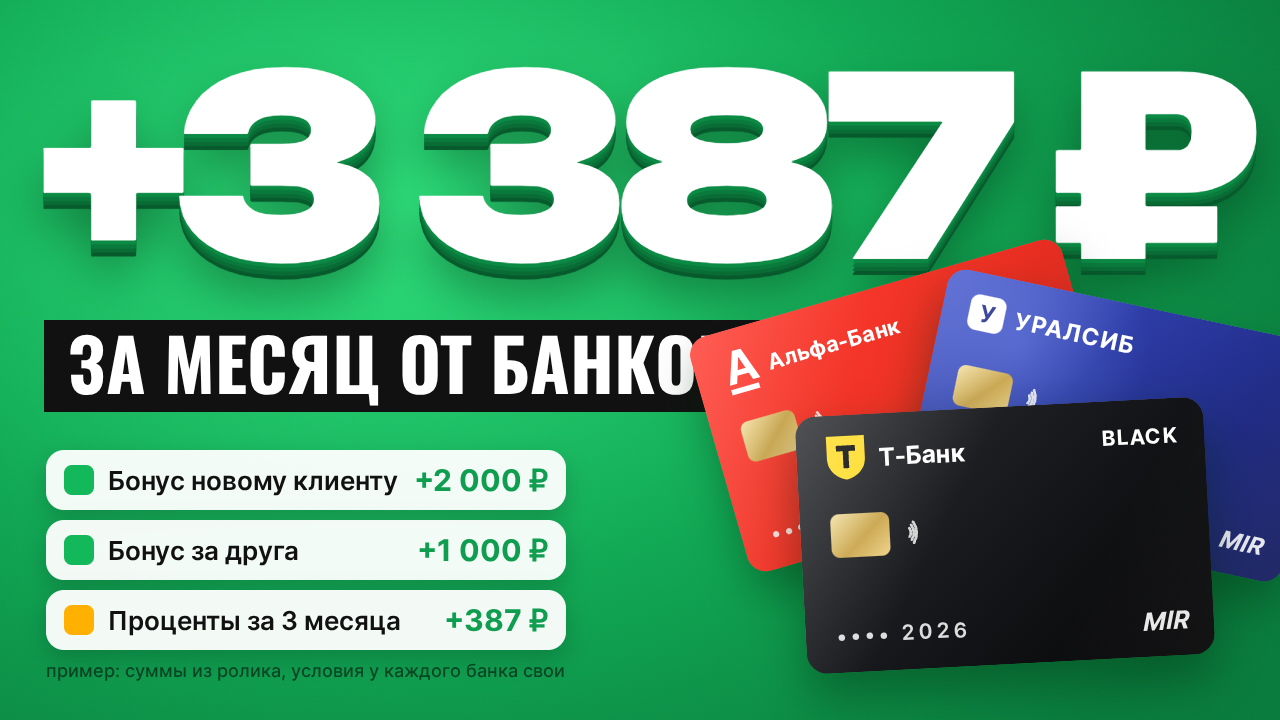
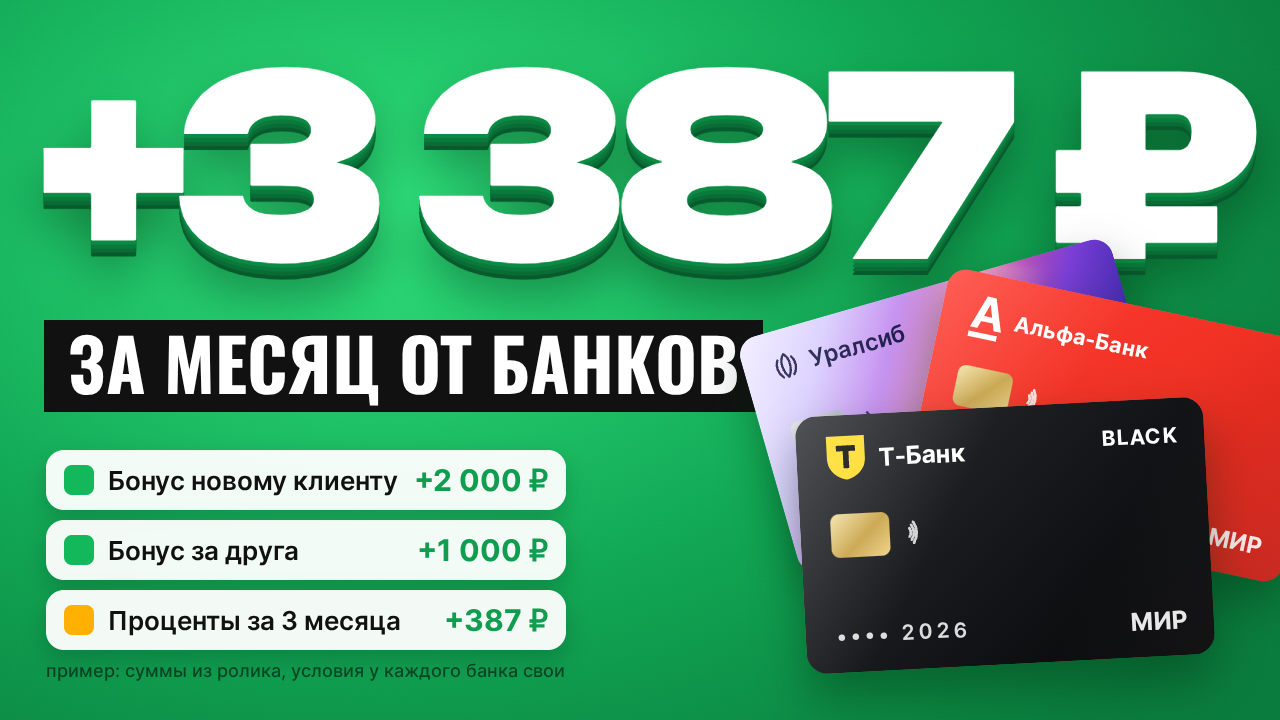
Video #3 thumbnail: Uralsib card in the bank's gradient colours, МИР label on all cards
Claude-Session: https://claude.ai/code/session_01RfCfKDkbyGyDNmw4SWPkFj

Changed region(s): [[0.5312, 0.3361, 1.0, 0.825], [0.875, 0.825, 0.9375, 0.8861]]

diff --git a/youtube/03-banks-pay-you/thumb/thumbs7.html b/youtube/03-banks-pay-you/thumb/thumbs7.html
@@ -44,29 +44,29 @@
 const v = new URLSearchParams(location.search).get("v") || "1";
 const nfc = (c) => `<svg class="nfc" width="34" height="34" viewBox="0 0 34 34">${[8, 14, 20].map(r => `<path d="M${6 + r * .35} ${17 - r * .55} A ${r} ${r} 0 0 1 ${6 + r * .35} ${17 + r * .55}" fill="none" stroke="${c}" stroke-width="3" stroke-linecap="round"/>`).join("")}</svg>`;
 // упрощённые знаки банков (не точные копии логотипов): Альфа — красная карта и белая «А» с чертой; Т — чёрная карта и жёлтый щит;
-// Уралсиб — тёмно-синяя карта и надпись
+// Уралсиб — переливающаяся карта (светло-лиловый → розовый → фиолетовый), как их текущие карты «Мир»
 const CARDS = {
   alfa: `<div style="position:absolute;inset:0;background:linear-gradient(135deg,#ff3b30,#ef3124 50%,#c41d14)"></div>
     <div style="position:absolute;left:30px;top:22px;display:flex;align-items:center;gap:12px;color:#fff"><div style="position:relative;width:40px;height:50px">
       <div style="font:700 50px/1 I;color:#fff;position:absolute;left:3px;top:-4px">А</div><div style="position:absolute;left:4px;bottom:0;width:32px;height:6px;background:#fff"></div></div>
       <div style="font:700 24px I;letter-spacing:.01em">Альфа-Банк</div></div>
-    <div class="chip"></div>${nfc("rgba(255,255,255,.85)")}<div class="num4" style="color:#fff">•••• 4412</div><div class="ps" style="color:#fff">MIR</div>`,
+    <div class="chip"></div>${nfc("rgba(255,255,255,.85)")}<div class="num4" style="color:#fff">•••• 4412</div><div class="ps" style="color:#fff;font-style:normal;font-weight:700">МИР</div>`,
   tbank: `<div style="position:absolute;inset:0;background:linear-gradient(135deg,#2b2c30,#141518 55%,#050506)"></div>
     <div style="position:absolute;left:30px;top:20px;display:flex;align-items:center;gap:12px"><svg width="44" height="50" viewBox="0 0 44 50"><path d="M2 2 H42 V26 C42 38 32 46 22 48 C12 46 2 38 2 26 Z" fill="#ffdd2d"/>
       <path d="M12 12 H32 V18 H25 V36 H19 V18 H12 Z" fill="#111"/></svg><div style="font:700 26px I;color:#fff">Т-Банк</div></div>
     <div style="position:absolute;right:28px;top:26px;font:700 22px I;color:#fff;letter-spacing:.06em">BLACK</div>
-    <div class="chip"></div>${nfc("rgba(255,255,255,.8)")}<div class="num4" style="color:#fff">•••• 2026</div><div class="ps" style="color:#fff">MIR</div>`,
-  ural: `<div style="position:absolute;inset:0;background:linear-gradient(135deg,#3b4dc8,#24308f 55%,#151c5c)"></div>
-    <div style="position:absolute;left:-60px;top:-80px;width:300px;height:300px;border-radius:50%;background:radial-gradient(circle,rgba(120,150,255,.35),transparent 70%)"></div>
-    <div style="position:absolute;left:30px;top:24px;display:flex;align-items:center;gap:12px"><div style="width:40px;height:40px;border-radius:10px;background:#fff;display:flex;align-items:center;justify-content:center;font:700 26px I;color:#24308f">У</div>
-      <div style="font:700 26px I;color:#fff;letter-spacing:.06em">УРАЛСИБ</div></div>
-    <div class="chip"></div>${nfc("rgba(255,255,255,.85)")}<div class="num4" style="color:#fff">•••• 7730</div><div class="ps" style="color:#fff">MIR</div>`,
+    <div class="chip"></div>${nfc("rgba(255,255,255,.8)")}<div class="num4" style="color:#fff">•••• 2026</div><div class="ps" style="color:#fff;font-style:normal;font-weight:700">МИР</div>`,
+  ural: `<div style="position:absolute;inset:0;background:linear-gradient(118deg,#f1ecff 0%,#d9cfff 18%,#c58df0 34%,#e2559e 50%,#7b3fd6 68%,#3a23a8 84%,#24187a 100%)"></div>
+    <div style="position:absolute;left:120px;top:-40px;width:160px;height:380px;transform:rotate(28deg);background:linear-gradient(90deg,transparent,rgba(255,255,255,.45),transparent);filter:blur(6px)"></div>
+    <div style="position:absolute;left:30px;top:24px;display:flex;align-items:center;gap:10px"><svg width="34" height="34" viewBox="0 0 34 34"><path d="M17 4 C 11 10, 11 22, 17 30 M17 4 C 23 10, 23 22, 17 30 M9 9 C 5 15, 6 24, 11 29 M25 9 C 29 15, 28 24, 23 29" fill="none" stroke="#1d1a4a" stroke-width="2.6" stroke-linecap="round"/></svg>
+      <div style="font:600 26px I;color:#1d1a4a">Уралсиб</div></div>
+    <div class="chip" style="background:linear-gradient(135deg,#e9e9ef,#b9bac6 55%,#dcdce4)"></div>${nfc("rgba(29,26,74,.8)")}<div class="num4" style="color:#fff">•••• 7730</div><div class="ps" style="color:#fff;font-style:normal;font-weight:700">МИР</div>`,
 };
 // расположение трёх карт: [банк, x, y, поворот, масштаб]; первая — сзади
 const LAY = {
   1: [["ural", 830, 300, 22, .9, 1], ["alfa", 800, 320, 6, .9, 1], ["tbank", 770, 340, -10, .92, 1]],
   2: [["ural", 860, 235, -6, .85], ["alfa", 810, 325, -6, .88], ["tbank", 760, 415, -6, .9]],
-  3: [["alfa", 690, 270, -16, .9], ["ural", 900, 290, 12, .9], ["tbank", 790, 400, -3, .95]],
+  3: [["ural", 740, 270, -16, .9], ["alfa", 900, 290, 12, .9], ["tbank", 790, 400, -3, .95]],
 }[v];
 document.getElementById("cards").innerHTML = LAY.map(([b, x, y, r, s, pivot]) => `<div class="card" style="left:${x}px;top:${y}px;transform-origin:${pivot ? "50% 120%" : "50% 50%"};transform:rotate(${r}deg) scale(${s})">${CARDS[b]}</div>`).join("");
 const S = [["Бонус новому клиенту", "+2 000 ₽"], ["Бонус за друга", "+1 000 ₽"], ["Проценты за 3 месяца", "+387 ₽"]];

diff --git a/youtube/03-banks-pay-you/thumb/README.md b/youtube/03-banks-pay-you/thumb/README.md
@@ -39,4 +39,4 @@
 - Владелец выбрал `p7a.png`: «не используй 3д обьекты, этого больше не нужно, замени 3д обьекты на карты Альфа банка, Т банка и
   Урал сиб банка». `thumbs7.html` → `b2.png` (лесенка), `b3.png` (россыпь); `b1` (веер) не отправлен — логотипы задних карт закрыты.
   Карты плоские (CSS), знаки банков упрощённые; сумм на картах нет — суммы в списке слева, это примеры из сценария, не условия
-  конкретного банка (Уралсиба в источниках сценария нет). Правило с 11.10: в превью без 3D-объектов.
+  конкретного банка (Уралсиба в источниках сценария нет). Правило с 11.10: в превью без 3D-объектов. Карта Уралсиба по просьбе владельца («сделай в их цветах») — переливающийся градиент светло-лиловый → розовый → фиолетовый, как их текущие карты «Мир» (сверено по обзорам карт на YouTube 11.10).
